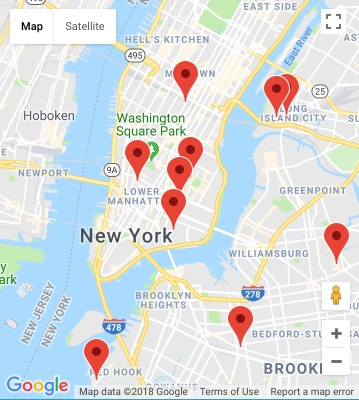
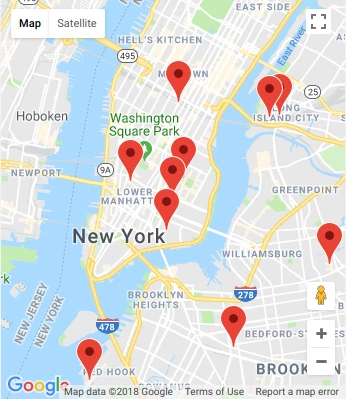
feat: Implement maps pic / load on click

diff --git a/js/dist/restaurant_info.js b/js/dist/restaurant_info.js
@@ -1,1 +1,1 @@
-"use strict";let restaurant,reviews;var map;window.initMap=(()=>{fetchRestaurantFromURL((e,t)=>{e?console.error(e):(self.map=new google.maps.Map(document.getElementById("map"),{zoom:16,center:t.latlng,scrollwheel:!1}),fillBreadcrumb(),DBHelper.mapMarkerForRestaurant(self.restaurant,self.map))})});const fetchRestaurantFromURL=async e=>{if(self.restaurant)return console.log("fetchRestaurantFromURL: restaurant already fetched!"),void e(null,self.restaurant);const t=getParameterByName("id");t?(await DBHelper.fetchRestaurantById(t,(t,n)=>{self.restaurant=n,n?e(null,n):console.error(t)}),await DBHelper.fetchRestaurantReviewsById(self.restaurant.id,(e,t)=>{t?self.reviews=t:console.error(e)}),fillRestaurantHTML()):(error="No restaurant id in URL",e(error,null))},fillRestaurantHTML=(e=self.restaurant)=>{if(document.getElementById("restaurant-name").innerHTML=e.name,0===document.querySelector("#favorite").childNodes.length){const t=document.querySelector("#favorite"),n=document.createElement("button"),r=document.createElement("p");r.innerHTML="click to change favorite state",e.is_favorite?n.innerHTML=`${String.fromCodePoint(127775)} This is a favorite`:n.innerHTML=`${String.fromCodePoint(9723)} No favorite of yours`,n.addEventListener("click",()=>{fetch(`http://localhost:1337/restaurants/${e.id}/?is_favorite=${!e.is_favorite}`,{method:"PUT",body:{}}),e.is_favorite=!e.is_favorite,t.removeChild(n),t.removeChild(r),fillRestaurantHTML(e)}),t.appendChild(n),t.appendChild(r)}document.getElementById("restaurant-address").innerHTML=e.address;const t=document.getElementById("restaurant-img"),n=document.getElementById("restaurant-figcap");t.className="restaurant-img",t.src=DBHelper.imageUrlForRestaurant(e),t.alt=`An impression of restaurant ${e.name}`,n.innerHTML=`Restaurant ${e.name}`;const r=t.src.slice(0,-17);t.srcset=`${r}-250_small-min.webp 250w,\n                  ${r}-400_medium-min.webp 400w,\n                  ${r}-600_large-min.webp 600w,\n                  ${r}-800_orig-min.webp 800w\n                  `,t.sizes="90vw",document.getElementById("restaurant-cuisine").innerHTML=e.cuisine_type,e.operating_hours&&fillRestaurantHoursHTML(),fillReviewsHTML()},fillRestaurantHoursHTML=(e=self.restaurant.operating_hours)=>{const t=document.getElementById("restaurant-hours");for(let n in e){const r=document.createElement("tr"),a=document.createElement("td");a.innerHTML=n,r.appendChild(a);const i=document.createElement("td");i.innerHTML=e[n],r.appendChild(i),t.appendChild(r)}},fillReviewsHTML=(e=self.reviews)=>{const t=document.getElementById("reviews-container");if(t.childNodes.length<4){const e=document.createElement("h2");e.innerHTML="Reviews",t.appendChild(e)}if(!e){const e=document.createElement("p");return e.innerHTML="No reviews yet!",void t.appendChild(e)}const n=document.getElementById("reviews-list");e.forEach(e=>{n.appendChild(createReviewHTML(e))});const r=document.createElement("form");r.setAttribute("method","post"),r.setAttribute("action","http://localhost:1337/reviews"),r.onsubmit=(e=>{e.preventDefault();const t={};for(let n=0;n<4;n++)t[e.target[n].name]=e.target[n].value;fetch("http://localhost:1337/reviews",{method:"POST",newReviewRequest:t}),n.insertBefore(createReviewHTML(t),n.childNodes[n.childNodes.length-1])}),r.classList.add("newReview");const a=document.createElement("textarea");a.setAttribute("placeholder","Your review goes here..."),a.setAttribute("name","comments");const i=document.createElement("input");i.setAttribute("name","restaurant_id"),i.setAttribute("value",self.restaurant.id),i.style.display="none";const s=document.createElement("input");s.setAttribute("name","name"),s.setAttribute("type","text"),s.setAttribute("placeholder","Your Name");const o=document.createElement("button");o.innerHTML="Create review",o.setAttribute("type","submit");const l=document.createElement("select");l.setAttribute("name","rating");let d="";for(let e=1;e<6;e++)d+=`${String.fromCodePoint(11088)}`,this[`option${e}`]=document.createElement("option"),this[`option${e}`].setAttribute("value",e),this[`option${e}`].innerHTML=`${d} ${e} Stars`,l.appendChild(this[`option${e}`]);o.innerHTML="Create review",o.setAttribute("type","submit"),r.appendChild(i),r.appendChild(s),r.appendChild(a),r.appendChild(l),r.appendChild(o),n.appendChild(r),t.appendChild(n)},createReviewHTML=e=>{const t=document.createElement("li"),n=document.createElement("p");n.innerHTML=e.name,n.classList.add("review-author");const r=document.createElement("span"),a=new Date(e.createdAt||Date.now()),i=a.getUTCMonth()+1,s=a.getUTCDate(),o=a.getUTCFullYear();r.innerHTML=o+"/"+i+"/"+s,r.classList.add("review-date"),n.appendChild(r),t.appendChild(n);const l=document.createElement("p");l.innerHTML=`Rating: ${e.rating}`,l.classList.add("review-rating"),t.appendChild(l);const d=document.createElement("p");return d.innerHTML=e.comments,d.classList.add("review-comments"),t.appendChild(d),t},fillBreadcrumb=(e=self.restaurant)=>{const t=document.getElementById("breadcrumb");if(t.childNodes.length<4){const n=document.createElement("li");n.innerHTML=e.name,t.appendChild(n)}},getParameterByName=(e,t)=>{t||(t=window.location.href),e=e.replace(/[\[\]]/g,"\\$&");const n=new RegExp(`[?&]${e}(=([^&#]*)|&|#|$)`).exec(t);return n?n[2]?decodeURIComponent(n[2].replace(/\+/g," ")):"":null};
+"use strict";let restaurant,reviews;var map;window.initMap=(()=>{const e=document.createElement("img"),t="/img/webp/maps-";e.srcset=`${t}360.webp 360w, ${t}500.webp 500w, ${t}700.webp 700w, ${t}900.webp 900w, ${t}1200.webp 1200w, ${t}1600.webp 1600w`,e.alt="Google Maps Preview";const n=document.getElementById("map");n.appendChild(e),fetchRestaurantFromURL((e,t)=>{e?console.error(e):n.addEventListener("click",e=>{self.map=new google.maps.Map(n,{zoom:16,center:t.latlng,scrollwheel:!1});google.maps.event.addListenerOnce(self.map,"idle",()=>{let e=document.querySelector("iframe");e.setAttribute("aria-hidden","true"),e.setAttribute("tabindex","-1")});DBHelper.mapMarkerForRestaurant(self.restaurant,self.map)}),fillBreadcrumb()})});const fetchRestaurantFromURL=async e=>{if(self.restaurant)return console.log("fetchRestaurantFromURL: restaurant already fetched!"),void e(null,self.restaurant);const t=getParameterByName("id");t?(await DBHelper.fetchRestaurantById(t,(t,n)=>{self.restaurant=n,n?e(null,n):console.error(t)}),await DBHelper.fetchRestaurantReviewsById(self.restaurant.id,(e,t)=>{t?self.reviews=t:console.error(e)}),fillRestaurantHTML()):(error="No restaurant id in URL",e(error,null))},fillRestaurantHTML=(e=self.restaurant)=>{document.getElementById("restaurant-name").innerHTML=e.name,console.log(self.restaurant.is_favorite);const t=document.querySelector("#favorite"),n=document.createElement("button"),r=document.createElement("p");r.innerHTML="click to change favorite state",n.innerHTML=self.restaurant.is_favorite?`${String.fromCodePoint(127775)} This is a favorite`:`${String.fromCodePoint(9723)} No favorite of yours`,n.addEventListener("click",async()=>{try{await fetch(`http://localhost:1337/restaurants/${e.id}/?is_favorite=${!e.is_favorite}`,{method:"PUT",headers:{Accept:"application/json"}}),self.restaurant.is_favorite=!e.is_favorite,t.removeChild(n),t.removeChild(r),fillRestaurantHTML(self.restaurant)}catch(t){console.error("You are offline, saving data to storage ",t),window.localStorage.setItem(`favoriteJson?id=${e.id}`,JSON.stringify({id:e.id,favorite:e.is_favorite})),window.addEventListener("online",()=>{console.log("You are online sending data to server"),window.localStorage.getItem(`favoriteJson?id=${e.id}`,(e,{id:t,favorite:n})=>{e&&console.error("error getting the stored data back ",e),fetch(`http://localhost:1337/restaurants/${t}/?is_favorite=${!n}`,{method:"PUT",headers:{Accept:"application/json"}})})})}}),t.appendChild(n),t.appendChild(r),document.getElementById("restaurant-address").innerHTML=e.address;const a=document.getElementById("restaurant-img"),i=document.getElementById("restaurant-figcap");a.className="restaurant-img",a.src=DBHelper.imageUrlForRestaurant(e),a.alt=`An impression of restaurant ${e.name}`,i.innerHTML=`Restaurant ${e.name}`;const s=a.src.slice(0,-17);a.srcset=`${s}-250_small-min.webp 250w,\n                  ${s}-400_medium-min.webp 400w,\n                  ${s}-600_large-min.webp 600w,\n                  ${s}-800_orig-min.webp 800w\n                  `,a.sizes="90vw",document.getElementById("restaurant-cuisine").innerHTML=e.cuisine_type,e.operating_hours&&fillRestaurantHoursHTML(),fillReviewsHTML()},fillRestaurantHoursHTML=(e=self.restaurant.operating_hours)=>{const t=document.getElementById("restaurant-hours");for(let n in e){const r=document.createElement("tr"),a=document.createElement("td");a.innerHTML=n,r.appendChild(a);const i=document.createElement("td");i.innerHTML=e[n],r.appendChild(i),t.appendChild(r)}},fillReviewsHTML=(e=self.reviews)=>{const t=document.getElementById("reviews-container");if(t.childNodes.length<4){const e=document.createElement("h2");e.innerHTML="Reviews",t.appendChild(e)}if(!e){const e=document.createElement("p");return e.innerHTML="No reviews yet!",void t.appendChild(e)}const n=document.getElementById("reviews-list");e.forEach(e=>{n.appendChild(createReviewHTML(e))});const r=document.createElement("form");r.setAttribute("method","post"),r.setAttribute("action","http://localhost:1337/reviews"),r.onsubmit=(e=>{e.preventDefault();const t={};for(let n=0;n<4;n++)t[e.target[n].name]=e.target[n].value;fetch("http://localhost:1337/reviews",{method:"POST",newReviewRequest:t}),n.insertBefore(createReviewHTML(t),n.childNodes[n.childNodes.length-1])}),r.classList.add("newReview");const a=document.createElement("textarea");a.setAttribute("placeholder","Your review goes here..."),a.setAttribute("name","comments");const i=document.createElement("input");i.setAttribute("name","restaurant_id"),i.setAttribute("value",self.restaurant.id),i.style.display="none";const s=document.createElement("input");s.setAttribute("name","name"),s.setAttribute("type","text"),s.setAttribute("placeholder","Your Name");const o=document.createElement("button");o.innerHTML="Create review",o.setAttribute("type","submit");const l=document.createElement("select");l.setAttribute("name","rating");let d="";for(let e=1;e<6;e++)d+=`${String.fromCodePoint(11088)}`,this[`option${e}`]=document.createElement("option"),this[`option${e}`].setAttribute("value",e),this[`option${e}`].innerHTML=`${d} ${e} Stars`,l.appendChild(this[`option${e}`]);o.innerHTML="Create review",o.setAttribute("type","submit"),r.appendChild(i),r.appendChild(s),r.appendChild(a),r.appendChild(l),r.appendChild(o),n.appendChild(r),t.appendChild(n)},createReviewHTML=e=>{const t=document.createElement("li"),n=document.createElement("p");n.innerHTML=e.name,n.classList.add("review-author");const r=document.createElement("span"),a=new Date(e.createdAt||Date.now()),i=a.getUTCMonth()+1,s=a.getUTCDate(),o=a.getUTCFullYear();r.innerHTML=o+"/"+i+"/"+s,r.classList.add("review-date"),n.appendChild(r),t.appendChild(n);const l=document.createElement("p");l.innerHTML=`Rating: ${e.rating}`,l.classList.add("review-rating"),t.appendChild(l);const d=document.createElement("p");return d.innerHTML=e.comments,d.classList.add("review-comments"),t.appendChild(d),t},fillBreadcrumb=(e=self.restaurant)=>{const t=document.getElementById("breadcrumb");if(t.childNodes.length<4){const n=document.createElement("li");n.innerHTML=e.name,t.appendChild(n)}},getParameterByName=(e,t)=>{t||(t=window.location.href),e=e.replace(/[\[\]]/g,"\\$&");const n=new RegExp(`[?&]${e}(=([^&#]*)|&|#|$)`).exec(t);return n?n[2]?decodeURIComponent(n[2].replace(/\+/g," ")):"":null};

diff --git a/js/dist/main.js b/js/dist/main.js
@@ -1,1 +1,1 @@
-"use strict";let restaurants,neighborhoods,cuisines;var map,markers=[],lazyImages=[];const logging=!1;document.addEventListener("DOMContentLoaded",e=>{serviceWorker(),fetchNeighborhoods(),fetchCuisines()});const fetchNeighborhoods=()=>{window.localStorage.getItem("restaurantData",function(e,t){t?self.restaurantList=t:DBHelper.fetchNeighborhoods((e,t)=>{e?console.error(e):(self.neighborhoods=t,fillNeighborhoodsHTML())})})},fillNeighborhoodsHTML=(e=self.neighborhoods)=>{const t=document.getElementById("neighborhoods-select");e.forEach(e=>{const s=document.createElement("option");s.innerHTML=e,s.value=e,t.append(s)})},fetchCuisines=()=>{DBHelper.fetchCuisines((e,t)=>{e?console.error(e):(self.cuisines=t,fillCuisinesHTML())})},fillCuisinesHTML=(e=self.cuisines)=>{const t=document.getElementById("cuisines-select");e.forEach(e=>{const s=document.createElement("option");s.innerHTML=e,s.value=e,t.append(s)})};window.initMap=(()=>{self.map=new google.maps.Map(document.getElementById("map"),{zoom:12,center:{lat:40.722216,lng:-73.987501},scrollwheel:!1});google.maps.event.addListenerOnce(self.map,"idle",()=>{let e=document.querySelector("iframe");e.setAttribute("aria-hidden","true"),e.setAttribute("tabindex","-1")});updateRestaurants()});const updateRestaurants=()=>{const e=document.getElementById("cuisines-select"),t=document.getElementById("neighborhoods-select"),s=e.selectedIndex,n=t.selectedIndex,r=e[s].value,a=t[n].value;DBHelper.fetchRestaurantByCuisineAndNeighborhood(r,a,(e,t)=>{e?console.error(e):(resetRestaurants(t),fillRestaurantsHTML())})},resetRestaurants=e=>{self.restaurants=[],document.getElementById("restaurants-list").innerHTML="",self.markers.forEach(e=>e.setMap(null)),self.markers=[],self.restaurants=e},fillRestaurantsHTML=(e=self.restaurants)=>{const t=document.getElementById("restaurants-list");e.forEach(e=>{t.append(createRestaurantHTML(e))}),addMarkersToMap(),lazyLoadImages()},createRestaurantHTML=e=>{const t=document.createElement("li"),s=document.createElement("span");e.is_favorite&&(s.innerHTML=`${String.fromCodePoint(127775)} This is a favorite`),t.append(s);const n=document.createElement("figure"),r=document.createElement("img"),a=document.createElement("figcaption");n.className="restaurant-fig",r.className="restaurant-img",a.className="restaurant-figcap";const o=DBHelper.imageUrlForRestaurant(e);r.src="",r.alt=`An impression of restaurant ${e.name}`,a.innerHTML=`Restaurant ${e.name}`;const i=o.slice(0,-17);r["data-src"]=`${i}.webp`,r["data-srcset"]=`${i}-250_small-min.webp 250w,\n                  ${i}-400_medium-min.webp 400w`,r.sizes="(min-width: 434px) 300px, calc(100% - 137px)",n.append(r),n.append(a),t.append(n);const c=document.createElement("h2");c.innerHTML=e.name,t.append(c);const l=document.createElement("p");l.innerHTML=e.neighborhood,t.append(l);const d=document.createElement("p");d.innerHTML=e.address,t.append(d);const u=document.createElement("a");return u.innerHTML="View Details",u.href=DBHelper.urlForRestaurant(e),u.setAttribute("role","button"),u.setAttribute("aria-label",`Press to view details of restaurant ${e.name}`),t.append(u),t},addMarkersToMap=(e=self.restaurants)=>{e.forEach(e=>{const t=DBHelper.mapMarkerForRestaurant(e,self.map);google.maps.event.addListener(t,"click",()=>{window.location.href=t.url}),self.markers.push(t)})},lazyLoadImages=()=>{const e=[].slice.call(document.querySelectorAll(".restaurant-img"));if("IntersectionObserver"in window){let t=new IntersectionObserver(function(e,s){e.forEach(e=>{if(e.isIntersecting){let s=e.target;s.src=s["data-src"],s.srcset=s["data-srcset"],t.unobserve(s)}})});e.forEach(e=>{t.observe(e)})}else console.log("LazyLoadImages failed")},serviceWorker=()=>{navigator.serviceWorker&&navigator.serviceWorker.register("/service-worker.js",{scope:"/"}).then(e=>{0}).catch(e=>console.log("[ServiceWorker] registration failed!",e))};
+"use strict";let restaurants,neighborhoods,cuisines;var map,markers=[],lazyImages=[];const logging=!1;document.addEventListener("DOMContentLoaded",e=>{serviceWorker(),fetchNeighborhoods(),fetchCuisines()});const fetchNeighborhoods=()=>{window.localStorage.getItem("restaurantData",function(e,t){t?self.restaurantList=t:DBHelper.fetchNeighborhoods((e,t)=>{e?console.error(e):(self.neighborhoods=t,fillNeighborhoodsHTML())})})},fillNeighborhoodsHTML=(e=self.neighborhoods)=>{const t=document.getElementById("neighborhoods-select");e.forEach(e=>{const s=document.createElement("option");s.innerHTML=e,s.value=e,t.append(s)})},fetchCuisines=()=>{DBHelper.fetchCuisines((e,t)=>{e?console.error(e):(self.cuisines=t,fillCuisinesHTML())})},fillCuisinesHTML=(e=self.cuisines)=>{const t=document.getElementById("cuisines-select");e.forEach(e=>{const s=document.createElement("option");s.innerHTML=e,s.value=e,t.append(s)})};window.initMap=(()=>{let e={lat:40.722216,lng:-73.987501};const t=document.createElement("img"),s="/img/webp/maps-";t.srcset=`${s}360.webp 360w, ${s}500.webp 500w, ${s}700.webp 700w, ${s}900.webp 900w, ${s}1200.webp 1200w, ${s}1600.webp 1600w`,t.alt="Google Maps Preview";const n=document.getElementById("map");n.appendChild(t),n.addEventListener("click",t=>{self.map=new google.maps.Map(n,{zoom:12,center:e,scrollwheel:!1});google.maps.event.addListenerOnce(self.map,"idle",()=>{let e=document.querySelector("iframe");e.setAttribute("aria-hidden","true"),e.setAttribute("tabindex","-1")});updateRestaurants()}),updateRestaurants()});const updateRestaurants=()=>{const e=document.getElementById("cuisines-select"),t=document.getElementById("neighborhoods-select"),s=e.selectedIndex,n=t.selectedIndex,r=e[s].value,a=t[n].value;DBHelper.fetchRestaurantByCuisineAndNeighborhood(r,a,(e,t)=>{e?console.error(e):(resetRestaurants(t),fillRestaurantsHTML())})},resetRestaurants=e=>{self.restaurants=[],document.getElementById("restaurants-list").innerHTML="",self.markers.forEach(e=>e.setMap(null)),self.markers=[],self.restaurants=e},fillRestaurantsHTML=(e=self.restaurants)=>{const t=document.getElementById("restaurants-list");e.forEach(e=>{t.append(createRestaurantHTML(e))}),addMarkersToMap(),lazyLoadImages()},createRestaurantHTML=e=>{const t=document.createElement("li"),s=document.createElement("span");e.is_favorite&&(s.innerHTML=`${String.fromCodePoint(127775)} This is a favorite`),t.append(s);const n=document.createElement("figure"),r=document.createElement("img"),a=document.createElement("figcaption");n.className="restaurant-fig",r.className="restaurant-img",a.className="restaurant-figcap";const o=DBHelper.imageUrlForRestaurant(e);r.src="",r.alt=`An impression of restaurant ${e.name}`,a.innerHTML=`Restaurant ${e.name}`;const i=o.slice(0,-17);r["data-src"]=`${i}.webp`,r["data-srcset"]=`${i}-250_small-min.webp 250w,\n                  ${i}-400_medium-min.webp 400w`,r.sizes="(min-width: 434px) 300px, calc(100% - 137px)",n.append(r),n.append(a),t.append(n);const c=document.createElement("h2");c.innerHTML=e.name,t.append(c);const l=document.createElement("p");l.innerHTML=e.neighborhood,t.append(l);const d=document.createElement("p");d.innerHTML=e.address,t.append(d);const u=document.createElement("a");return u.innerHTML="View Details",u.href=DBHelper.urlForRestaurant(e),u.setAttribute("role","button"),u.setAttribute("aria-label",`Press to view details of restaurant ${e.name}`),t.append(u),t},addMarkersToMap=(e=self.restaurants)=>{e.forEach(e=>{const t=DBHelper.mapMarkerForRestaurant(e,self.map);google.maps.event.addListener(t,"click",()=>{window.location.href=t.url}),self.markers.push(t)})},lazyLoadImages=()=>{const e=[].slice.call(document.querySelectorAll(".restaurant-img"));if("IntersectionObserver"in window){let t=new IntersectionObserver(function(e,s){e.forEach(e=>{if(e.isIntersecting){let s=e.target;s.src=s["data-src"],s.srcset=s["data-srcset"],t.unobserve(s)}})});e.forEach(e=>{t.observe(e)})}else console.log("LazyLoadImages failed")},serviceWorker=()=>{navigator.serviceWorker&&navigator.serviceWorker.register("/service-worker.js",{scope:"/"}).then(e=>{0}).catch(e=>console.log("[ServiceWorker] registration failed!",e))};

diff --git a/js/restaurant_info.js b/js/restaurant_info.js
@@ -3,22 +3,45 @@ let restaurant, reviews;
 var map;
 
 /**
- * Initialize Google map, called from HTML.
+ * Initialize map container with image, and load Google map when clicked,
+ * initMap called from HTML.
  */
 window.initMap = () => {
+  const image = document.createElement('img');
+  const rootImgSrc = '/img/webp/maps-';
+  // image.src = `${rootImgSrc}1200.webp`;
+  image.srcset = `${rootImgSrc}360.webp 360w, ${rootImgSrc}500.webp 500w, ${rootImgSrc}700.webp 700w, ${rootImgSrc}900.webp 900w, ${rootImgSrc}1200.webp 1200w, ${rootImgSrc}1600.webp 1600w`;
+  image.alt = `Google Maps Preview`;
+
+  const mapDiv = document.getElementById('map');
+  mapDiv.appendChild(image);
+
   fetchRestaurantFromURL((error, restaurant) => {
     if (error) {
       // Got an error!
       console.error(error);
     } else {
-      self.map = new google.maps.Map(document.getElementById('map'), {
-        zoom: 16,
-        center: restaurant.latlng,
-        scrollwheel: false
+      mapDiv.addEventListener('click', e => {
+        self.map = new google.maps.Map(mapDiv, {
+          zoom: 16,
+          center: restaurant.latlng,
+          scrollwheel: false
+        });
+        //
+        const idleListener = google.maps.event.addListenerOnce(
+          self.map,
+          'idle',
+          () => {
+            let iframe = document.querySelector('iframe');
+            iframe.setAttribute('aria-hidden', 'true');
+            iframe.setAttribute('tabindex', '-1');
+          }
+        );
+
+        DBHelper.mapMarkerForRestaurant(self.restaurant, self.map);
       });
-      fillBreadcrumb();
-      DBHelper.mapMarkerForRestaurant(self.restaurant, self.map);
     }
+    fillBreadcrumb();
   });
 };
 
@@ -67,40 +90,70 @@ const fillRestaurantHTML = (restaurant = self.restaurant) => {
   const name = document.getElementById('restaurant-name');
   name.innerHTML = restaurant.name;
 
-  if (document.querySelector('#favorite').childNodes.length === 0) {
-    const favdiv = document.querySelector('#favorite');
-    const favbutton = document.createElement('button');
-    const favp = document.createElement('p');
-    favp.innerHTML = 'click to change favorite state';
+  console.log(self.restaurant.is_favorite);
 
-    if (restaurant.is_favorite) {
-      favbutton.innerHTML = `${String.fromCodePoint(
-        0x1f31f
-      )} This is a favorite`;
-    } else {
-      favbutton.innerHTML = `${String.fromCodePoint(
-        0x25fb
-      )} No favorite of yours`;
-    }
+  const favdiv = document.querySelector('#favorite');
+  const favbutton = document.createElement('button');
+  const favp = document.createElement('p');
+  favp.innerHTML = 'click to change favorite state';
 
-    favbutton.addEventListener('click', () => {
-      fetch(
+  favbutton.innerHTML = self.restaurant.is_favorite
+    ? `${String.fromCodePoint(0x1f31f)} This is a favorite`
+    : `${String.fromCodePoint(0x25fb)} No favorite of yours`;
+
+  favbutton.addEventListener('click', async () => {
+    try {
+      await fetch(
         `http://localhost:1337/restaurants/${
           restaurant.id
         }/?is_favorite=${!restaurant.is_favorite}`,
         {
           method: 'PUT',
-          body: {}
+          headers: {
+            Accept: 'application/json'
+          }
         }
       );
-      restaurant.is_favorite = !restaurant.is_favorite;
+      self.restaurant.is_favorite = !restaurant.is_favorite;
       favdiv.removeChild(favbutton);
       favdiv.removeChild(favp);
-      fillRestaurantHTML(restaurant);
-    });
-    favdiv.appendChild(favbutton);
-    favdiv.appendChild(favp);
-  }
+      fillRestaurantHTML(self.restaurant);
+    } catch (err) {
+      console.error('You are offline, saving data to storage ', err);
+
+      window.localStorage.setItem(
+        `favoriteJson?id=${restaurant.id}`,
+        JSON.stringify({
+          id: restaurant.id,
+          favorite: restaurant.is_favorite
+        })
+      );
+
+      window.addEventListener('online', () => {
+        console.log('You are online sending data to server');
+
+        window.localStorage.getItem(
+          `favoriteJson?id=${restaurant.id}`,
+          (err, { id, favorite }) => {
+            if (err) {
+              console.error('error getting the stored data back ', err);
+            }
+            fetch(
+              `http://localhost:1337/restaurants/${id}/?is_favorite=${!favorite}`,
+              {
+                method: 'PUT',
+                headers: {
+                  Accept: 'application/json'
+                }
+              }
+            );
+          }
+        );
+      });
+    }
+  });
+  favdiv.appendChild(favbutton);
+  favdiv.appendChild(favp);
 
   const address = document.getElementById('restaurant-address');
   address.innerHTML = restaurant.address;

diff --git a/css/styles_min.css b/css/styles_min.css
@@ -1,1 +1,1 @@
-@charset "utf-8";body,li,p,td,th,ul{color:#333;font-family:Arial,Helvetica,sans-serif}a,a:focus,a:hover{text-decoration:none}body,h1,h2,h3,h4,h5,h6,li,p,td,th,ul{font-family:Arial,Helvetica,sans-serif}.skiplink,nav{height:80px;text-align:center}.skiplink,footer,nav{text-align:center}footer,nav a{text-transform:uppercase}body,p,td,th{font-size:.9rem;line-height:1.5}body{background-color:#fdfdfd;margin:0;position:relative}li,ul{font-size:10pt}a{color:orange}a:focus,a:hover{color:#3397db}a img{border:0 #fff}h1,h2,h3,h4,h5,h6{margin:0 auto}article,aside,canvas,details,figcaption,figure,footer,header,hgroup,menu,nav,section{display:block}main,nav,section ul{display:-webkit-box;display:-ms-flexbox;display:flex}main{background-color:#f3f3f3;min-height:100%}footer{background-color:#444;color:#eee;font-size:8pt;letter-spacing:1px;padding:25px}.skiplink{background:#fdfdfd;-webkit-box-sizing:border-box;box-sizing:border-box;padding:20px;position:absolute;top:-500px;width:200px;z-index:1}#map,nav{width:100%}.skiplink:focus{top:0}nav{-webkit-box-align:center;-ms-flex-align:center;align-items:center;background-color:#252831}nav a{color:#fff;font-size:14pt;font-weight:200;letter-spacing:10px}#map{background-color:#ccc;height:400px}section ul{-ms-flex-wrap:wrap;flex-wrap:wrap;-ms-flex-pack:distribute;justify-content:space-around}main{-webkit-box-orient:vertical;-webkit-box-direction:normal;-ms-flex-direction:column;flex-direction:column}@media screen and (min-width:600px){nav a{font-size:16pt}#breadcrumb li{font-size:1.2rem}.inside #map-container{margin-top:calc(80px + 68px)}}
+@charset "utf-8";body,li,p,td,th,ul{color:#333;font-family:Arial,Helvetica,sans-serif}a,a:focus,a:hover{text-decoration:none}body,h1,h2,h3,h4,h5,h6,li,p,td,th,ul{font-family:Arial,Helvetica,sans-serif}.skiplink,nav{height:80px;text-align:center}.skiplink,footer,nav{text-align:center}footer,nav a{text-transform:uppercase}body,p,td,th{font-size:.9rem;line-height:1.5}body{background-color:#fdfdfd;margin:0;position:relative}li,ul{font-size:10pt}a{color:orange}a:focus,a:hover{color:#3397db}a img{border:0 #fff}h1,h2,h3,h4,h5,h6{margin:0 auto}article,aside,canvas,details,figcaption,figure,footer,header,hgroup,menu,nav,section{display:block}main,nav,section ul{display:-webkit-box;display:-ms-flexbox;display:flex}main{background-color:#f3f3f3;min-height:100%}footer{background-color:#444;color:#eee;font-size:8pt;letter-spacing:1px;padding:25px}.skiplink{background:#fdfdfd;-webkit-box-sizing:border-box;box-sizing:border-box;padding:20px;position:absolute;top:-500px;width:200px;z-index:1}#map,#map img{height:400px}#map,#map img,nav{width:100%}.skiplink:focus{top:0}nav{-webkit-box-align:center;-ms-flex-align:center;align-items:center;background-color:#252831}nav a{color:#fff;font-size:14pt;font-weight:200;letter-spacing:10px}#map{background-color:#ccc}section ul{-ms-flex-wrap:wrap;flex-wrap:wrap;-ms-flex-pack:distribute;justify-content:space-around}main{-webkit-box-orient:vertical;-webkit-box-direction:normal;-ms-flex-direction:column;flex-direction:column}@media screen and (min-width:600px){nav a{font-size:16pt}#breadcrumb li{font-size:1.2rem}.inside #map-container{margin-top:calc(80px + 68px)}}

diff --git a/js/main.js b/js/main.js
@@ -78,28 +78,42 @@ const fillCuisinesHTML = (cuisines = self.cuisines) => {
 };
 
 /**
- * Initialize Google map, called from HTML.
+ * Initialize map container with image, and load Google map when clicked,
+ * initMap called from HTML.
  */
 window.initMap = () => {
   let loc = {
     lat: 40.722216,
     lng: -73.987501
   };
-  self.map = new google.maps.Map(document.getElementById('map'), {
-    zoom: 12,
-    center: loc,
-    scrollwheel: false
+  const image = document.createElement('img');
+  const rootImgSrc = '/img/webp/maps-';
+  // image.src = `${rootImgSrc}1200.webp`;
+  image.srcset = `${rootImgSrc}360.webp 360w, ${rootImgSrc}500.webp 500w, ${rootImgSrc}700.webp 700w, ${rootImgSrc}900.webp 900w, ${rootImgSrc}1200.webp 1200w, ${rootImgSrc}1600.webp 1600w`;
+  image.alt = `Google Maps Preview`;
+
+  const mapDiv = document.getElementById('map');
+  mapDiv.appendChild(image);
+
+  mapDiv.addEventListener('click', e => {
+    self.map = new google.maps.Map(mapDiv, {
+      zoom: 12,
+      center: loc,
+      scrollwheel: false
+    });
+
+    const idleListener = google.maps.event.addListenerOnce(
+      self.map,
+      'idle',
+      () => {
+        let iframe = document.querySelector('iframe');
+        iframe.setAttribute('aria-hidden', 'true');
+        iframe.setAttribute('tabindex', '-1');
+      }
+    );
+    updateRestaurants();
   });
 
-  const idleListener = google.maps.event.addListenerOnce(
-    self.map,
-    'idle',
-    () => {
-      let iframe = document.querySelector('iframe');
-      iframe.setAttribute('aria-hidden', 'true');
-      iframe.setAttribute('tabindex', '-1');
-    }
-  );
   updateRestaurants();
 };
 
@@ -262,31 +276,6 @@ const lazyLoadImages = () => {
     console.log('LazyLoadImages failed');
   }
 };
-
-// const lazyLoadGoogleMap = () => {
-//   const lazyMap = [].slice.call(document.querySelectorAll('#map'));
-//
-//   if ('IntersectionObserver' in window) {
-//     let lazyGoogleMapObserver = new IntersectionObserver(function(
-//       entries,
-//       observer
-//     ) {
-//       entries.forEach(entry => {
-//         if (entry.isIntersecting) {
-//           let lazyGoogleMap = entry.target;
-//           initializeMap();
-//           lazyMapObserver.unobserve(lazyGoogleMap);
-//         }
-//       });
-//     });
-//     lazyMap.forEach(map => {
-//       lazyMapObserver.observe(map);
-//     });
-//   } else {
-//     // Possibly fall back to a more compatible method here
-//     console.log('LazyLoadGoogleMaps failed');
-//   }
-// };
 
 /**
  * Add service-worker

diff --git a/css/styles.css b/css/styles.css
@@ -111,6 +111,11 @@ nav a {
   width: 100%;
 }
 
+#map img {
+  height: 400px;
+  width: 100%;
+}
+
 /* ====================== Merge responsive ====================== */
 section ul {
   display: flex;

diff --git a/css/inline_restaurant.css b/css/inline_restaurant.css
@@ -89,11 +89,6 @@
   font-size: 14pt;
 }
 
-#favorite p {
-
-  /* display: none; */
-}
-
 button :hover {
   display: block;
   font-size: 200px;
